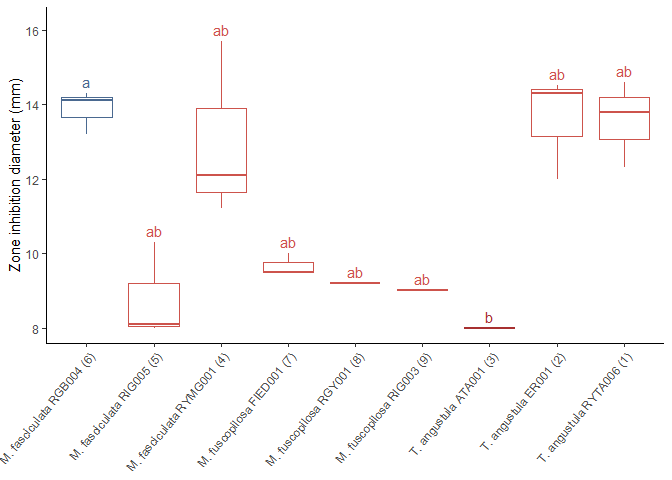
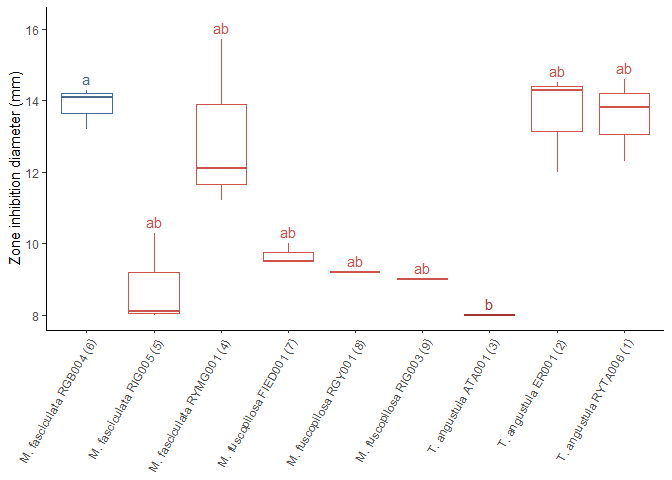
Antimicrobial plot.

diff --git a/Antimicrobial_activity-Statistics.md b/Antimicrobial_activity-Statistics.md
@@ -39,10 +39,11 @@ Jefferson Pastuña
 # Introduction
 
 This R Script aims to record the procedure for analyzing the
-antimicrobial activity of honeys from three different species (*Melipona
-fasciculata*, *Melipona fuscopilosa*, and *Tetragonisca angustula*)
-against the following microbial strains: *Candida albicans* ATCC 10231,
-*Escherichia coli* ATCC 25922, *Staphylococcus aureus* ATCC 29213, and
+antimicrobial activity of honeys (at different concentrations, 25, 50,
+75, and 100 % v/v) from three different species (*Melipona fasciculata*,
+*Melipona fuscopilosa*, and *Tetragonisca angustula*) against the
+following microbial strains: *Candida albicans* ATCC 10231, *Escherichia
+coli* ATCC 25922, *Staphylococcus aureus* ATCC 29213, and
 antibiotic-resistant *Klebsiella pneumoniae*, and *Proteus mirabilis*.
 The result of *C. albicans* was not used for statistical analysis
 because the antimicrobial activity was observed in only a few honey
@@ -406,7 +407,7 @@ tk_pm100 <- ggplot(all_bacteria,
   theme_classic() +
   labs(x = NULL, y = "Zone inhibition diameter (mm)") +
   theme(plot.title = element_text(face = "italic"),
-        axis.text.x = element_text(angle = 50, hjust = 1)) +
+        axis.text.x = element_text(angle = 60, hjust = 1)) +
   theme(legend.position="none")
 tk_pm100
 ```
@@ -622,7 +623,7 @@ dn_ec100 <- ggplot(all_bacteria,
   theme_classic() +
   labs(x = NULL, y = "Zone inhibition diameter (mm)") +
   theme(plot.title = element_text(face = "italic"),
-        axis.text.x = element_text(angle = 50, hjust = 1)) +
+        axis.text.x = element_text(angle = 60, hjust = 1)) +
   theme(legend.position="none")
 dn_ec100
 ```
@@ -1014,7 +1015,7 @@ dn_sa100 <- ggplot(all_bacteria,
   theme_classic() +
   labs(x = NULL, y = "Zone inhibition diameter (mm)") +
   theme(plot.title = element_text(face = "italic"),
-        axis.text.x = element_text(angle = 50, hjust = 1)) +
+        axis.text.x = element_text(angle = 60, hjust = 1)) +
   theme(legend.position="none")
 dn_sa100
 ```
@@ -1317,7 +1318,7 @@ dn_kp100 <- ggplot(all_bacteria,
   theme_classic() +
   labs(x = NULL, y = "Zone inhibition diameter (mm)") +
   theme(plot.title = element_text(face = "italic"),
-        axis.text.x = element_text(angle = 50, hjust = 1)) +
+        axis.text.x = element_text(angle = 60, hjust = 1)) +
   theme(legend.position="none")
 dn_kp100
 ```
